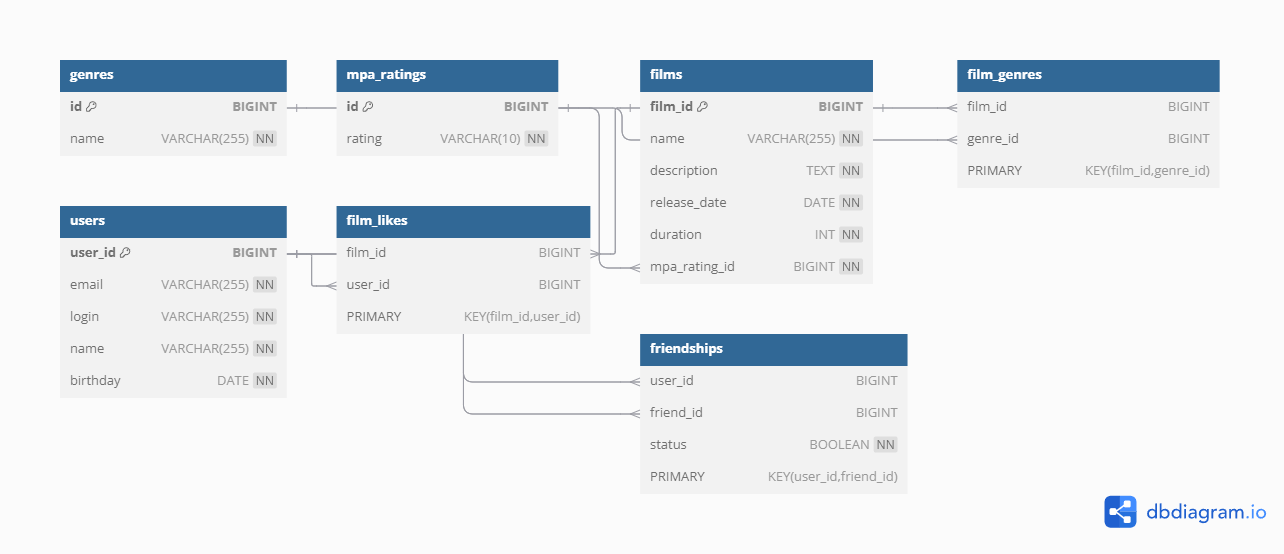
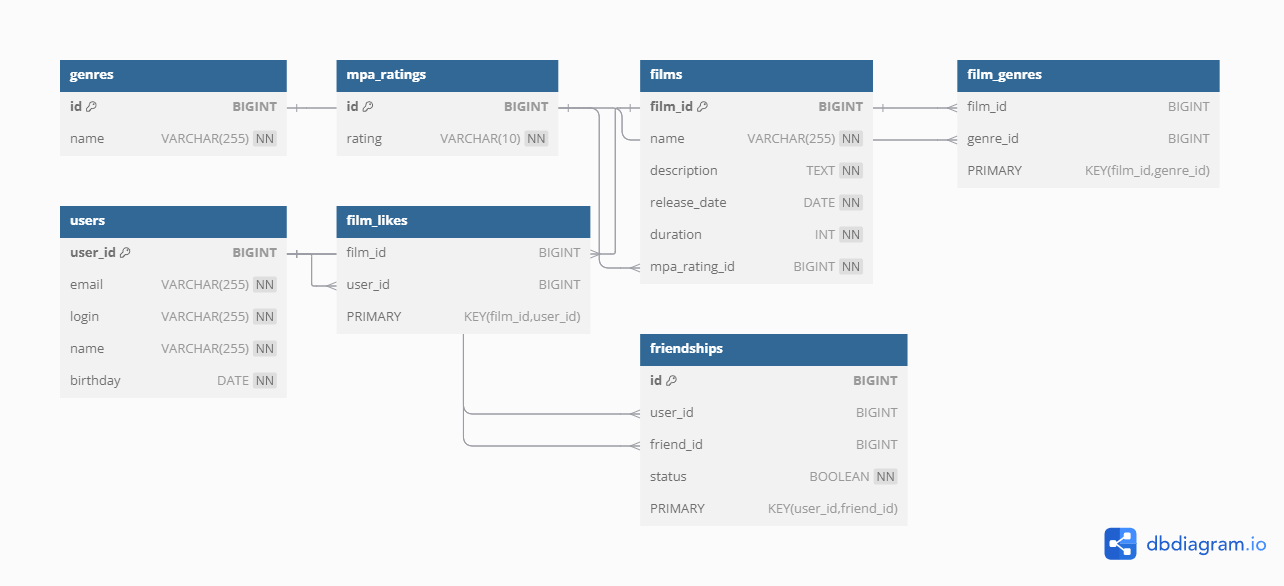
fix issue and tests

diff --git a/src/main/java/ru/yandex/practicum/filmorate/service/FilmService.java b/src/main/java/ru/yandex/practicum/filmorate/service/FilmService.java
@@ -6,6 +6,7 @@ import org.springframework.stereotype.Service;
 import ru.yandex.practicum.filmorate.exceptions.NotFoundException;
 import ru.yandex.practicum.filmorate.exceptions.ValidateException;
 import ru.yandex.practicum.filmorate.model.Film;
+import ru.yandex.practicum.filmorate.model.User;
 import ru.yandex.practicum.filmorate.storage.film.FilmStorage;
 import ru.yandex.practicum.filmorate.storage.genre.GenreRepository;
 import ru.yandex.practicum.filmorate.storage.mpaRating.MpaRatingRepository;
@@ -37,18 +38,18 @@ public class FilmService {
         Film film = filmStorage.findById(filmId)
                 .orElseThrow(() -> new NotFoundException("Фильм с ID " + filmId + " не найден"));
 
-        userStorage.findById(userId)
+        User user = userStorage.findById(userId)
                 .orElseThrow(() -> new NotFoundException("Пользователь с ID " + userId + " не найден"));
 
         if (film.getLikes() == null) {
             film.setLikes(new HashSet<>());
         }
 
-        if (film.getLikes().contains(userId)) {
+        if (film.getLikes().contains(user)) {
             throw new ValidateException("Пользователь уже поставил лайк этому фильму");
         }
 
-        film.getLikes().add(userId);
+        film.getLikes().add(user);
         filmStorage.updateFilm(film);
     }
 
@@ -56,16 +57,19 @@ public class FilmService {
         Film film = filmStorage.findById(filmId)
                 .orElseThrow(() -> new NotFoundException("Фильм с ID " + filmId + " не найден"));
 
+        User user = userStorage.findById(userId)
+                .orElseThrow(() -> new NotFoundException("Пользователь с ID " + userId + " не найден"));
+
         if (film.getLikes() == null) {
             film.setLikes(new HashSet<>());
         }
 
-        if (!film.getLikes().contains(userId)) {
+        if (!film.getLikes().contains(user)) {
             throw new NotFoundException("Пользователь не ставил лайк этому фильму или " +
                     "такого пользователя не существует");
         }
 
-        film.getLikes().remove(userId);
+        film.getLikes().remove(user);
         filmStorage.updateFilm(film);
     }
 

diff --git a/src/test/java/ru/yandex/practicum/filmorate/UserControllerTest.java b/src/test/java/ru/yandex/practicum/filmorate/UserControllerTest.java
@@ -5,6 +5,7 @@ import org.springframework.beans.factory.annotation.Autowired;
 import org.springframework.boot.test.autoconfigure.web.servlet.AutoConfigureMockMvc;
 import org.springframework.boot.test.context.SpringBootTest;
 import org.springframework.http.MediaType;
+import org.springframework.test.context.TestPropertySource;
 import org.springframework.test.web.servlet.MockMvc;
 
 import static org.springframework.test.web.servlet.request.MockMvcRequestBuilders.post;
@@ -12,6 +13,9 @@ import static org.springframework.test.web.servlet.result.MockMvcResultMatchers.
 
 @SpringBootTest
 @AutoConfigureMockMvc
+@TestPropertySource(
+        locations = "classpath:application-test.properties"
+)
 public class UserControllerTest {
 
     @Autowired
@@ -45,6 +49,21 @@ public class UserControllerTest {
                         .contentType(MediaType.APPLICATION_JSON)
                         .content(invalidUserJson))
                 .andExpect(status().isBadRequest());
+    }
+
+    @Test
+    void shouldReturnOkWhenValidUserIsProvided() throws Exception {
+        String validUserJson = "    {\n" +
+                "               \"login\": \"dolore\",\n" +
+                "               \"name\": \"Nick Name\",\n" +
+                "               \"email\": \"mail@mail.ru\",\n" +
+                "               \"birthday\": \"1946-08-20\"\n" +
+                "             }\n";
+
+        mockMvc.perform(post("/users")
+                        .contentType(MediaType.APPLICATION_JSON)
+                        .content(validUserJson))
+                .andExpect(status().isCreated());
     }
 
 }

diff --git a/src/test/java/ru/yandex/practicum/filmorate/FilmControllerTest.java b/src/test/java/ru/yandex/practicum/filmorate/FilmControllerTest.java
@@ -5,6 +5,7 @@ import org.springframework.beans.factory.annotation.Autowired;
 import org.springframework.boot.test.autoconfigure.web.servlet.AutoConfigureMockMvc;
 import org.springframework.boot.test.context.SpringBootTest;
 import org.springframework.http.MediaType;
+import org.springframework.test.context.TestPropertySource;
 import org.springframework.test.web.servlet.MockMvc;
 
 import static org.springframework.test.web.servlet.request.MockMvcRequestBuilders.get;
@@ -14,11 +15,32 @@ import static org.springframework.test.web.servlet.result.MockMvcResultMatchers.
 
 @SpringBootTest
 @AutoConfigureMockMvc
+@TestPropertySource(
+        locations = "classpath:application-test.properties"
+)
 public class FilmControllerTest {
 
     @Autowired
     private MockMvc mockMvc;
 
+    @Test
+    void shouldReturn201WhenFilmIsValid() throws Exception {
+        String validFilmJson = "{\n" +
+                "  \"name\": \"Inception\",\n" +
+                "  \"description\": \"A mind-bending thriller\",\n" +
+                "  \"releaseDate\": \"2010-07-16\",\n" +
+                "  \"duration\": 148,\n" +
+                "  \"mpa\": { \"id\": 1 },\n" +
+                "  \"genres\": [\n" +
+                "    { \"id\": 1 }\n" +
+                "  ]\n" +
+                "}";
+
+        mockMvc.perform(post("/films")
+                        .contentType(MediaType.APPLICATION_JSON)
+                        .content(validFilmJson))
+                .andExpect(status().isCreated());
+    }
 
     @Test
     void shouldReturn400WhenNameIsEmpty() throws Exception {

diff --git a/src/main/java/ru/yandex/practicum/filmorate/service/UserService.java b/src/main/java/ru/yandex/practicum/filmorate/service/UserService.java
@@ -1,10 +1,10 @@
 package ru.yandex.practicum.filmorate.service;
 
-import org.springframework.dao.DataIntegrityViolationException;
-import org.springframework.transaction.annotation.Transactional;
 import org.springframework.beans.factory.annotation.Autowired;
 import org.springframework.beans.factory.annotation.Qualifier;
+import org.springframework.dao.DataIntegrityViolationException;
 import org.springframework.stereotype.Service;
+import org.springframework.transaction.annotation.Transactional;
 import ru.yandex.practicum.filmorate.exceptions.NotFoundException;
 import ru.yandex.practicum.filmorate.exceptions.ValidateException;
 import ru.yandex.practicum.filmorate.model.Friendship;
@@ -94,6 +94,9 @@ public class UserService {
         return commonFriends;
     }
 
+
+
+
     public User getUserById(Long id) {
         return userRepository.findById(id)
                 .orElseThrow(() -> new NotFoundException("Пользователь с ID " + id + " не найден"));
@@ -110,6 +113,8 @@ public class UserService {
 
         return friends;
     }
+
+
 
 
     @Transactional

diff --git a/src/main/java/ru/yandex/practicum/filmorate/model/Film.java b/src/main/java/ru/yandex/practicum/filmorate/model/Film.java
@@ -37,7 +37,6 @@ public class Film {
     private LocalDate releaseDate;
     @Positive(message = "Продолжительность фильма должна быть положительным числом")
     private int duration;
-    private Set<Long> likes = new HashSet<>();
 
     @ManyToMany
     @JoinTable(
@@ -51,6 +50,14 @@ public class Film {
     @JoinColumn(name = "mpa_rating_id", referencedColumnName = "id")
     @JsonProperty("mpa")
     private MpaRating mpaRating;
+
+    @ManyToMany
+    @JoinTable(
+            name = "film_likes",
+            joinColumns = @JoinColumn(name = "film_id", referencedColumnName = "film_id"),
+            inverseJoinColumns = @JoinColumn(name = "user_id", referencedColumnName = "user_id")
+    )
+    private Set<User> likes = new HashSet<>();
 
 }
 

diff --git a/src/main/java/ru/yandex/practicum/filmorate/model/User.java b/src/main/java/ru/yandex/practicum/filmorate/model/User.java
@@ -35,12 +35,13 @@ public class User {
     private LocalDate birthday;
 
 
-    @Setter
-    @Getter
-    @ElementCollection
-    @CollectionTable(name = "friendships", joinColumns = @JoinColumn(name = "user_id"))
-    @Column(name = "friend_id")
-    private Set<Long> friends = new HashSet<>();
+    @ManyToMany
+    @JoinTable(
+        name = "friendships",
+        joinColumns = @JoinColumn(name = "user_id"),
+        inverseJoinColumns = @JoinColumn(name = "friend_id")
+    )
+    private Set<User> friends = new HashSet<>();
 
 }
 

diff --git a/src/main/java/ru/yandex/practicum/filmorate/model/Friendship.java b/src/main/java/ru/yandex/practicum/filmorate/model/Friendship.java
@@ -13,6 +13,7 @@ import lombok.NoArgsConstructor;
 public class Friendship {
     @Id
     @GeneratedValue(strategy = GenerationType.IDENTITY)
+    @Column(name = "id")
     private Long id;
 
     @Column(name = "user_id", nullable = false)
